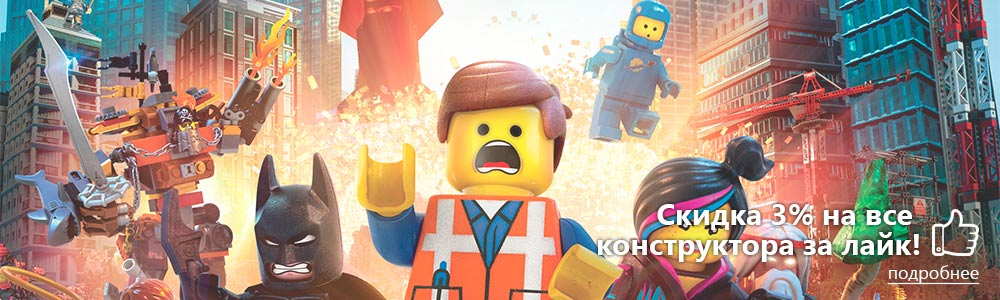
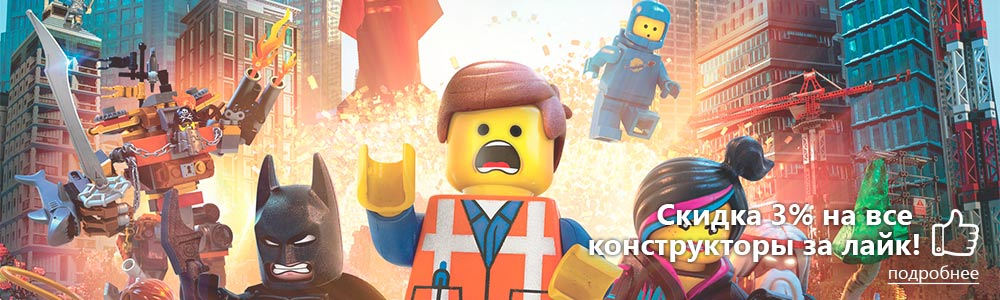
Fix Саша

Changed region(s): [[0.589, 0.78, 0.806, 0.9]]

diff --git a/view/css/style.css b/view/css/style.css
@@ -308,8 +308,9 @@ a#basketSmall:hover {
     color:#fff;
     right:20px;
     top:20px;
-    font-weight:700;
-    font-size:20px;
+    font-weight:600;
+    font-size:28px;
+    text-shadow:0 0 3px #444;
     width:40%;
     text-align:right;
 }

diff --git a/view/main.php b/view/main.php
@@ -6,7 +6,7 @@ defined(ACCESS_VALUE) or die('Access denied');
     <div id="main">
         <div class="slider">
             <a href="info-7">
-                <p>Лайкакция</p>
+                <p>Лайк акция</p>
                 <img src="<?=VIEW?>images/likeaction.jpg" alt="Лайкакция"/>
             </a>
         </div>
